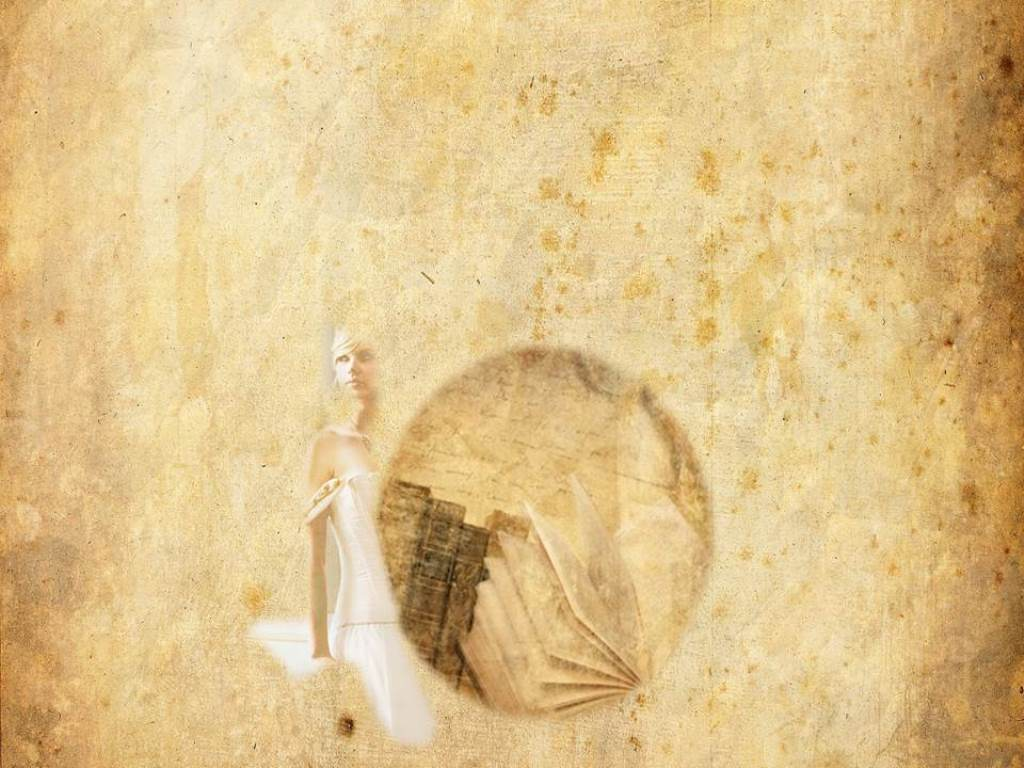
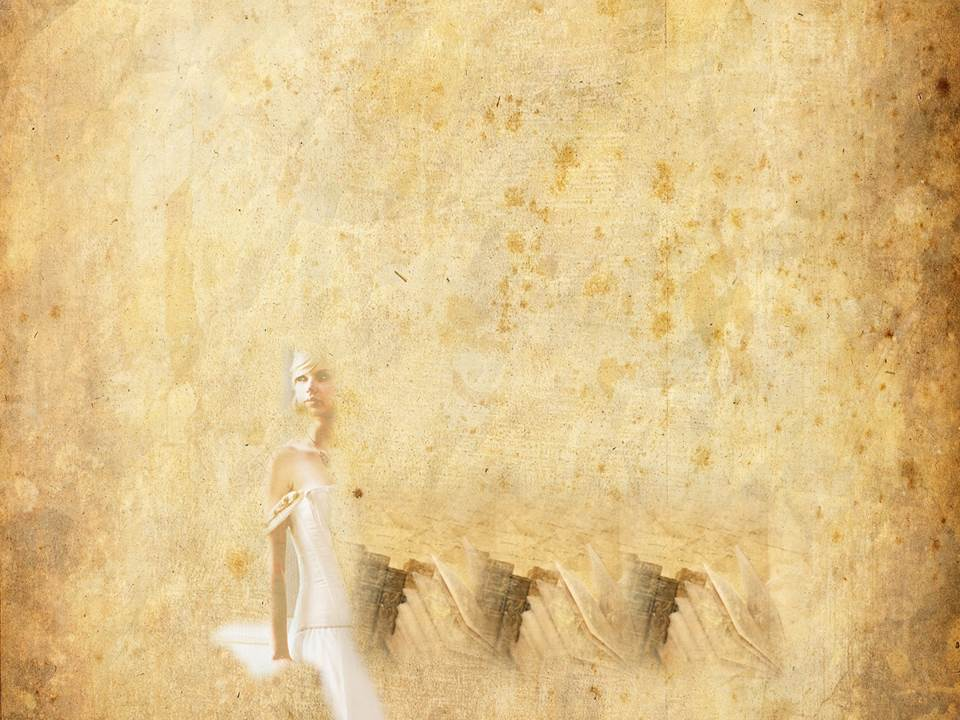
Add files via upload

diff --git a/Profiles.html b/Profiles.html
@@ -38,7 +38,7 @@
                   </li>
                   <li class="nav-item">
                     <a class="nav-link" href="Profiles.html">My Profile</a>
-                    
+
                   </li>
                 </ul>
 
@@ -54,45 +54,49 @@
 
       </header>
   </head>
+  <body class="Profiles">
+          <div class="container">
+              <div class="boxprofile">
+                   <p>cargar la base de datos de registrarse inicialmente, completar...??? </p>
+                      <h3>cargar una Imagen </h3>
+
+                  <div class="card" style="width:370px">
+                    <center>
+                      <img src="fotoperfil.png" alt="camera" width="100" height="100">
+
+                      <form action="/action_page.php">
+                          <input type="file" name="" value="Upload"><br><br>
+                              <input type="submit" value="Send">
+                                <script>
+                                    function myFunction() {
+                                        var x = document.getElementById("myFile");
+                                            x.disabled = true;
+                                            }
+                                </script>
+                      </form>
+                    </center>
+                  </div>
+                      <div class="boxinfo">
+
+                            <p>PARA LLENAR LA INFORMACION</p>
+                                <form action="/action_page.php">
+                                    Pais:<br>
+                                          <input type="text" name="firstname" value="text"><br>
+                                    State:<br>
+                                          <input type="text" name="firstname" value="text"><br>
+                                    City:<br>
+                                          <input type="text" name="firstname" value="text"><br>
+                                    Phone:<br>
+                                          <input type="text" name="lastname" value="77777"><br>
+                                          <input type="radio" name="gender" value="male" checked> Male<br>
+                                          <input type="radio" name="gender" value="female"> Female<br>
+                                    Birthday:
+                                            <input type="date" name="bday">
+                                            <input type="submit" value="Submit">
+                                          </form>
+            </div>
 
 
-
-
-
-
-
-
-
-<body class="Profiles">
-
-  <p>cargar la base de datos de registrarse inicialmente, completar...??? </p>
-      <h3>cargar una Imagen </h3>
-
-          <input type="file" id="myFile">
-
-            <script>
-              function myFunction() {
-                var x = document.getElementById("myFile");
-                x.disabled = true;
-              }
-            </script>
-
-            <form action="/action_page.php">
-                Pais:<br>
-                <input type="text" name="firstname" value="text">
-                <br>
-                Phone:<br>
-                <input type="text" name="lastname" value="77777">
-                <br><br>
-
-                  <input type="radio" name="gender" value="male" checked> Male<br>
-                  <input type="radio" name="gender" value="female"> Female<br>
-
-                  Birthday:
-                  <input type="date" name="bday">
-                  <input type="submit" value="Submit">
-                </form>
-
-
+      </div>
 </body>
 </html>

diff --git a/Ebooks.html b/Ebooks.html
@@ -1,7 +1,71 @@
 <!DOCTYPE html>
 <html>
-<head>
-</head>
-<body>
-</body>
+<html lang="en" dir="ltr">
+  <head>
+    <!--Specify the character encoding for the HTML document-->
+    <meta charset="utf-8">
+    <!--Title WebPage-->
+    <title>CoffeeBook</title>
+    <link rel="stylesheet" href="stylo.css">
+    <link rel="stylesheet" href="https://maxcdn.bootstrapcdn.com/bootstrap/4.0.0/css/bootstrap.min.css" integrity="sha384-Gn5384xqQ1aoWXA+058RXPxPg6fy4IWvTNh0E263XmFcJlSAwiGgFAW/dAiS6JXm" crossorigin="anonymous">
+    <meta name="viewport" content="width=device-width, initial-scale=1.0">
+    <link rel="stylesheet" href="https://maxcdn.bootstrapcdn.com/bootstrap/4.3.1/css/bootstrap.min.css">
+    <script src="https://ajax.googleapis.com/ajax/libs/jquery/3.4.0/jquery.min.js"></script>
+    <script src="https://cdnjs.cloudflare.com/ajax/libs/popper.js/1.14.7/umd/popper.min.js"></script>
+    <script src="https://maxcdn.bootstrapcdn.com/bootstrap/4.3.1/js/bootstrap.min.js"></script>
+
+    <!-- Diseño encabezado, definicion estilos -->
+      <header>
+        <nav class="navbar navbar-expand-sm bg-ligth navbar-light">
+          <!-- Brand/logo -->
+
+          <a class="navbar-brand" href="#"><img src="logo.jpg" alt="logo" style="width:80px;"></a>
+
+          <!-- Toggler/collapsibe Button -->
+            <button class="navbar-toggler" type="button" data-toggle="collapse" data-target="#collapsibleNavbar">
+              <span class="navbar-toggler-icon"></span>
+            </button>
+
+<!-- Navbar links -->
+            <div class="collapse navbar-collapse" id="collapsibleNavbar">
+                <ul class="navbar-nav ml-auto">
+                  <li class="nav-item">
+                    <a class="nav-link" href="#">Home</a>
+                  </li>
+                  <li class="nav-item">
+                    <a class="nav-link" href="Ebooks.html">My Books</a>
+                  </li>
+                  <li class="nav-item">
+                    <a class="nav-link" href="Profiles.html">My Profile</a>
+                  </li>
+                </ul>
+
+              <nav class="navbar navbar-expand-sm bg-ligth navbar-ligth">
+                  <form class="form-inline" action="/action_page.php">
+                    <input class="form-control mr-sm-2" type="text" placeholder="Search">
+                    <button class="btn btn-warning" type="submit">Search</button>
+
+                  </form>
+              </nav>
+            </div>
+        </nav>
+
+      </header>
+  </head>
+
+
+
+  <body class="Ebooks">
+    <p>.............en esta pagina book´s star and store Books</p>
+
+
+
+
+
+
+  </body>
+
+
+
+
 </html>

diff --git a/stylo.css b/stylo.css
@@ -34,24 +34,42 @@
         font-family: 'Numans', sans-serif;
         }
 .login-container {
-        color: #ffff00;
-        margin-top: 25px;
+        color: #82c982;
+        margin-top: 10px;
+        margin-left: 10px;
+        }
+.login_text p {
+        color: #82c982;
+        margin-top: 5px;
         margin-left: 50px;
         word-spacing: 150px;
-    }
-.login_btn  {
-        color:rgba(0,0,0,.3);
-        margin-left: 30px;
-        }
-.login_reg  {
-        color:rgba(0,0,0,.3);
-        margin-left: 30px;
-                }
+            }
+.login_btn
+      {
+        margin-left: 10px;
+
+      }
 .Password {
-        margin-left: 35px;
+        margin-left: 100px;
+
+          }
+a:link {
+        color: #82c982;
+        background-color: transparent;
+        text-decoration: none;
+          }
+a:visited {
+        color:#82c982;
+        background-color: transparent;
+        text-decoration: none;
+          }
+a:hover {
+        color: red;
+        background-color: transparent;
+        text-decoration: underline;
           }
 .card-body p{
-        color: #ffff00;
+        color: #82c982;
         width: auto;
         margin-bottom: 20px;
     }
@@ -59,7 +77,7 @@
         height: 370px;
         margin-top: 40px;
         margin-bottom: 20px;
-        width: 400px;
+        width:400px;
         background: rgba(0,0,0,.3);
         }
 .boxcard-header h3{
@@ -74,7 +92,7 @@ input:focus{
 /*Template search*/
 
 body.search {
-        background-image:url("diapositiva3.jpg");
+        background-image:url("diapositiva5.jpg");
         background-position: center center;
         background-attachment: fixed;
         background-color: no repeat;
@@ -110,9 +128,31 @@ body.Profiles {
         font-family: 'Numans'sans-serif;
         }
 
+.boxprofile{
+        height: 700px;
+        margin-top: 100px;
+        margin-bottom: 20px;
+        width: 700px;
+        background: rgba(0,0,0,.50);
+        }
+.boxinfo {
+        margin-left: 220px;
+        }
+.card {
+      border: 1px solid #ccc;
+      margin-left: 25px;
+}
 
+/*Template Ebooks*/
+body.Ebooks {
+        background-image:url("diapositiva3.jpg");
+        background-position: center center;
+        background-attachment: fixed;
+        background-color: no repeat;
+        background-size: cover;
+        height: 100%;
+        font-family: 'Numans'sans-serif;
+                }
 
-
-
-/* pendiente configurar para dispositivos moviles y otros
-@media only screen and (max-width: 767px) {
+/* pendiente configurar para dispositivos moviles y otros/
+  @media screen and (max-width: 600px) {

diff --git a/Register.html b/Register.html
@@ -11,14 +11,15 @@
 
       <div class="login-container">
         <form class="form-inline" action="/action_page.php">
-            <label for="email">Email:</label>
-                <input type="email" class="form-control" id="email" placeholder="Enter email" name="email">
-                  <label for="pwd">Password:</label>
-                  <input type="password" class="form-control" id="pwd" placeholder="Enter password" name="pswd">
-                  <a href="search.html" class="btn btn-outline-light" role="button">Enviar</a>
-
+            <div class="login_text">
+                <p>Email:    Password:</p>
+                  <div class=login_btn>
+                    <input type="email" class="form-control" id="email" placeholder="Enter email" name="email">
+                    <input type="password" class="form-control" id="pwd" placeholder="Enter password" name="pswd">
+                    <a href="search.html" class="btn btn-outline-light" role="button">Enviar</a>
+                  </div>
+            </div>
         </form>
-
       </div>
           <div class="Password">
               <a href="#">Forgot your password?</a>
@@ -48,7 +49,7 @@
                           <p>Enter Username (min.8 char)</p>
                             <input type="text" class="form-control" placeholder="Username" minlength="8" maxlength="30">
                             <p>Enter Email</p>
-                            <input type="text" class="form-control" placeholder="e-mail" minlength="16" maxlength="25">
+                            <input type="email" class="form-control" placeholder="e-mail" minlength="16" maxlength="25">
                         </div>
                         <div class="password">
                             <p>Enter Password (min 8 char)</p>

diff --git a/search.html b/search.html
@@ -58,10 +58,10 @@
   <body class="search">
     <p>.............en esta pagina se buscaran sobre la biblioteca suministrada</p>
 
-
-
-
-
+    <div class="container">
+        <div class="boxsearch">
+        </div>
+    </div>
 
   </body>
 
